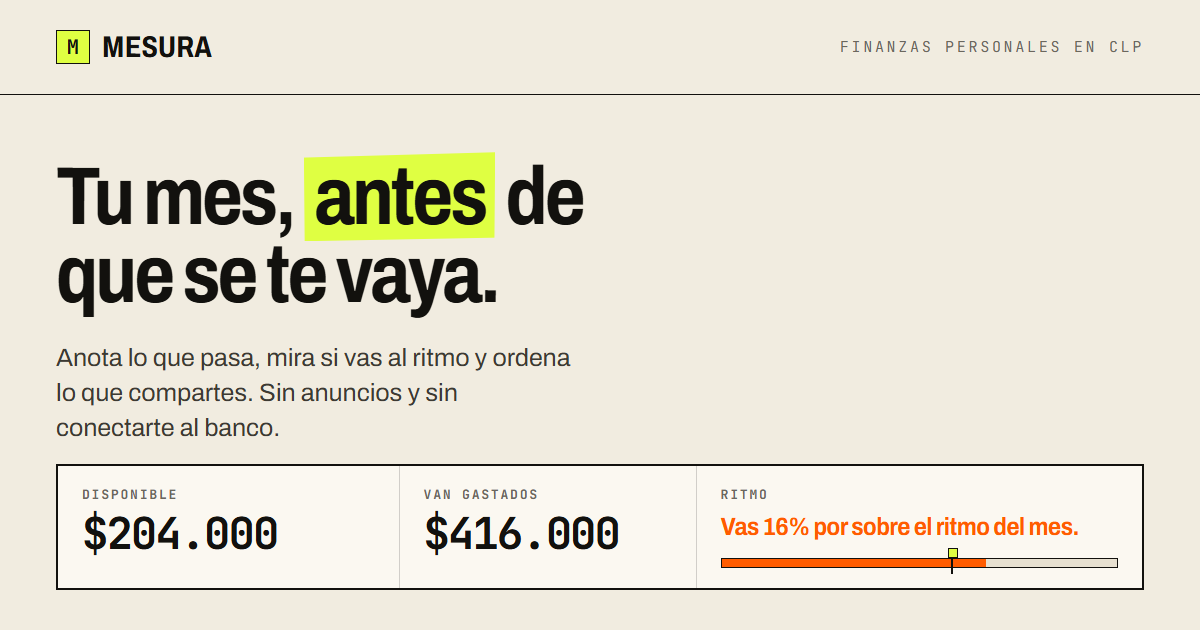
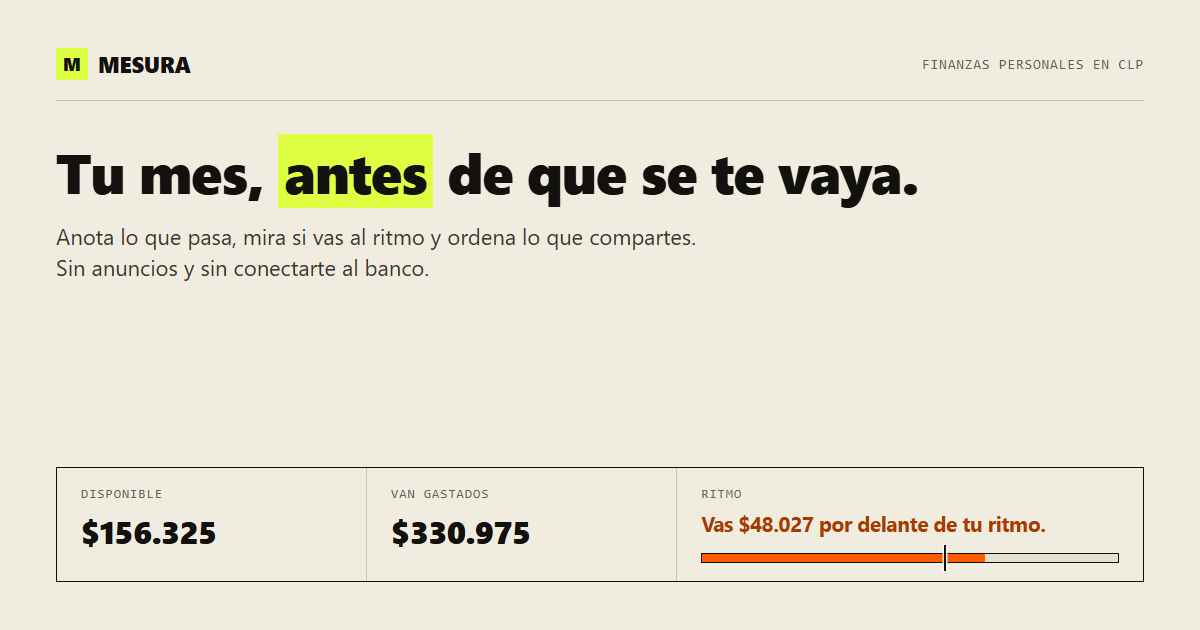
fix(landing): corrige el ejemplo del hero contra el codigo real y el calendario 2026
El estudio de usuarios (Mesura-lanzamiento/) encontro que el demo interactivo
del hero mostraba cosas que la app nunca hizo:

- El presupuesto de referencia ($620.000) era divisible exacto por los 31
  dias del mes -- el mismo defecto que landing-v2 tenia en los seis paises,
  pero ya vivia en la pagina publicada, en su propia demo.
- El veredicto de ritmo mostraba un porcentaje ("Vas 16% por sobre el ritmo
  del mes"). La app -- hoy, en master de Mesura-app-source -- nunca calculo
  un porcentaje: compara la diferencia en dinero contra PACE_TOLERANCE (500
  unidades minimas) y dice "Vas $X por delante/por debajo de tu ritmo" o
  "Vas al dia con tu presupuesto" (app/lib/home-context.ts). demo.js queda
  reescrito para replicar esa regla exacta, no una inventada.
- Las fechas del ejemplo (sab 16 / vie 15 / jue 14 / mie 13) son el
  calendario de agosto de 2025. En 2026 el 16 de agosto es domingo.
- La bajada del primer momento prometia "un monto, una categoria, listo" en
  cuatro campos reales, uno de ellos obligatorio ("Que fue?"). Se reemplaza
  por la secuencia real y se deja de esconder el campo que el estudio senala
  como lo mas valorado del producto.
- "Dos servicios para funcionar" describia dos cuando los propios Terminos
  (Mesura-app-source/app/terminos/page.tsx) declaran tres: falta Anthropic.
- No se declaraba que hoy no se puede importar desde otra app ni una
  planilla, ni que existe presupuesto por categoria ademas del general --
[…]

diff --git a/index.html b/index.html
@@ -16,7 +16,7 @@
 <meta property="og:image" content="https://mesura-landing.pages.dev/assets/img/og-mesura.png">
 <meta property="og:image:width" content="1200">
 <meta property="og:image:height" content="630">
-<meta property="og:image:alt" content="Estado del mes de Mesura: disponible $204.000 y el aviso de que vas por sobre el ritmo del mes.">
+<meta property="og:image:alt" content="Estado del mes de Mesura: disponible $156.325 y el aviso de que vas por delante de tu ritmo.">
 <meta name="twitter:card" content="summary_large_image">
 <meta name="twitter:title" content="Mesura — Tu mes, antes de que se te vaya">
 <meta name="twitter:description" content="Anota un gasto, mira si vas al ritmo del mes y ordena lo que compartes. En pesos chilenos, sin anuncios y sin conectarte al banco.">
@@ -169,27 +169,27 @@
           <div>
             <dt>Disponible</dt>
             <dd>
-              <p class="fig-amount" id="demo-available">$204.000</p>
-              <p class="fig-sub" id="demo-available-sub">De un presupuesto de $620.000 para el mes.</p>
+              <p class="fig-amount" id="demo-available">$156.325</p>
+              <p class="fig-sub" id="demo-available-sub">De un presupuesto de $487.300 para el mes.</p>
             </dd>
           </div>
           <div>
             <dt>Van gastados</dt>
             <dd>
-              <p class="fig-amount fig-amount--mid" id="demo-spent">$416.000</p>
+              <p class="fig-amount fig-amount--mid" id="demo-spent">$330.975</p>
               <p class="fig-sub">Suma de lo anotado entre el 1 y el 18 de agosto.</p>
             </dd>
           </div>
           <div>
             <dt>Ritmo</dt>
             <dd class="pace">
-              <p class="pace__verdict" id="demo-verdict" data-state="over">Vas 16% por sobre el ritmo del mes.</p>
+              <p class="pace__verdict" id="demo-verdict" data-state="over">Vas $48.027 por delante de tu ritmo.</p>
               <div class="pace__axis">
-                <div class="pace__fill" id="demo-fill" data-state="over" style="width:67%"></div>
-                <div class="pace__tick" id="demo-tick" style="left:58%"></div>
+                <div class="pace__fill" id="demo-fill" data-state="over" style="width:67.9%"></div>
+                <div class="pace__tick" id="demo-tick" style="left:58.1%"></div>
               </div>
               <div class="pace__scale">
-                <span id="demo-expected">Esperado al día 18: $360.000</span>
+                <span id="demo-detail">Es lo que llevas de más respecto a lo que correspondería a esta altura del mes.</span>
                 <span>Fin de mes</span>
               </div>
             </dd>
@@ -202,23 +202,23 @@
             <ul class="entries" id="demo-entries">
               <li>
                 <span class="entries__label">Feria de la Vega</span>
-                <span class="entries__amount">−$23.400</span>
-                <span class="entries__meta">Supermercado · sáb 16</span>
-              </li>
-              <li>
-                <span class="entries__label">Bencina</span>
-                <span class="entries__amount">−$32.000</span>
-                <span class="entries__meta">Transporte · vie 15</span>
+                <span class="entries__amount">−$20.125</span>
+                <span class="entries__meta">Supermercado · dom 16</span>
               </li>
               <li>
                 <span class="entries__label">Cumpleaños de la Javi</span>
-                <span class="entries__amount">−$18.500</span>
-                <span class="entries__meta">Salidas · jue 14</span>
+                <span class="entries__amount">−$18.079</span>
+                <span class="entries__meta">Salidas · sáb 15</span>
+              </li>
+              <li>
+                <span class="entries__label">Bencina</span>
+                <span class="entries__amount">−$7.504</span>
+                <span class="entries__meta">Transporte · vie 14</span>
               </li>
               <li>
                 <span class="entries__label">Cuenta de la luz</span>
-                <span class="entries__amount">−$41.200</span>
-                <span class="entries__meta">Casa · mié 13</span>
+                <span class="entries__amount">−$33.478</span>
+                <span class="entries__meta">Casa · jue 13</span>
               </li>
             </ul>
           </div>
@@ -229,30 +229,30 @@
               <li>
                 <div class="cats__row">
                   <span class="cats__name"><i class="cats__dot" style="background:#ff5c00"></i>Supermercado</span>
-                  <span class="cats__amount">$164.900</span>
+                  <span class="cats__amount">$136.785</span>
                 </div>
-                <div class="cats__bar"><span style="width:39.6%;background:#ff5c00"></span></div>
+                <div class="cats__bar"><span style="width:41.3%;background:#ff5c00"></span></div>
               </li>
               <li>
                 <div class="cats__row">
                   <span class="cats__name"><i class="cats__dot" style="background:#1f4fd8"></i>Transporte</span>
-                  <span class="cats__amount">$58.400</span>
+                  <span class="cats__amount">$46.245</span>
                 </div>
                 <div class="cats__bar"><span style="width:14%;background:#1f4fd8"></span></div>
               </li>
               <li>
                 <div class="cats__row">
                   <span class="cats__name"><i class="cats__dot" style="background:#8a5cf6"></i>Salidas</span>
-                  <span class="cats__amount">$74.200</span>
+                  <span class="cats__amount">$61.790</span>
                 </div>
-                <div class="cats__bar"><span style="width:17.8%;background:#8a5cf6"></span></div>
+                <div class="cats__bar"><span style="width:18.7%;background:#8a5cf6"></span></div>
               </li>
               <li>
                 <div class="cats__row">
                   <span class="cats__name"><i class="cats__dot" style="background:#0f9d58"></i>Casa</span>
-                  <span class="cats__amount">$118.500</span>
+                  <span class="cats__amount">$86.155</span>
                 </div>
-                <div class="cats__bar"><span style="width:28.5%;background:#0f9d58"></span></div>
+                <div class="cats__bar"><span style="width:26%;background:#0f9d58"></span></div>
               </li>
             </ul>
           </div>
@@ -317,14 +317,15 @@
           <div>
             <h3 class="t-h3">Acaba de pasar: lo anotas y sigues</h3>
             <p>
-              Un monto, una categoría, listo. Las categorías son tuyas — les cambias
-              el nombre, el color y el ícono, o creas las que te falten. El hábito se
-              sostiene porque el registro no interrumpe nada.
+              Escribes el monto, tocas la categoría, guardas — y de paso anotas qué
+              fue, en tus palabras, no en las de una planilla. Las categorías son
+              tuyas — les cambias el nombre, el color y el ícono, o creas las que te
+              falten.
             </p>
           </div>
           <p class="jotting">
-            <b><span>Feria de la Vega</span><span>−$23.400</span></b>
-            <em>Anotado en 4 segundos · Supermercado</em>
+            <b><span>Feria de la Vega</span><span>−$20.125</span></b>
+            <em>Supermercado · dom 16</em>
           </p>
         </li>
 
@@ -339,9 +340,9 @@
             </p>
           </div>
           <p class="jotting">
-            <b><span>Esperado al día 18</span><span>$360.000</span></b>
-            <b><span>Llevas gastado</span><span class="up">$416.000</span></b>
-            <em>16% sobre el ritmo · quedan 13 días</em>
+            <b><span>Esperado al día 18</span><span>$282.948</span></b>
+            <b><span>Llevas gastado</span><span class="up">$330.975</span></b>
+            <em>$48.027 por delante de tu ritmo · quedan 13 días</em>
           </p>
         </li>
 
@@ -365,8 +366,9 @@
 
       <p class="marginal">
         Alrededor de esos tres momentos hay metas de ahorro, calendario, favoritos,
-        recordatorios de pagos fijos y un resumen semanal por correo, que llega
-        activado y se apaga en un clic.
+        recordatorios de pagos fijos, presupuesto por categoría además del presupuesto
+        general, y un resumen semanal por correo, que llega activado y se apaga en un
+        clic.
       </p>
     </div>
   </section>
@@ -508,9 +510,12 @@
             </li>
             <li>Los movimientos que anotas tú, en pesos chilenos.</li>
             <li>
-              Dos servicios para funcionar
-              <small>Cloudflare mantiene la app en internet y Google manda los correos,
-              como el resumen semanal.</small>
+              Tres servicios para funcionar
+              <small>Cloudflare mantiene la app y la base de datos en internet. Google
+              manda los correos que Mesura te envía, como el resumen semanal — no
+              recibe tus movimientos uno por uno. Anthropic solo interviene si activas
+              «Análisis con Mesura IA», y solo recibe un resumen de la semana; esa
+              función viene apagada.</small>
             </li>
             <li>
               Tu respaldo, cuando lo pides
@@ -522,6 +527,11 @@
           <h3>Lo que Mesura no hace</h3>
           <ul>
             <li>No se conecta a tu banco ni te pide claves bancarias.</li>
+            <li>
+              No importa tus datos desde otra app ni desde una planilla
+              <small>Hoy solo se puede sacar, no meter: si ya llevas tus gastos en otro
+              lado, no hay forma de traerlos. Empiezas de cero.</small>
+            </li>
             <li>No muestra publicidad, no vende tus datos y no usa cookies de seguimiento.</li>
             <li>
               No usa inteligencia artificial, salvo que tú la actives

diff --git a/assets/js/demo.js b/assets/js/demo.js
@@ -15,8 +15,11 @@
   var NUM = new Intl.NumberFormat("es-CL");
 
   /* El ejemplo: un mes cualquiera, a mitad de camino. El día 18 de 31 hace
-     que el "ritmo" tenga algo que decir desde el primer segundo. */
-  var REFERENCE = 620000;
+     que el "ritmo" tenga algo que decir desde el primer segundo.
+     Presupuesto de gasto variable (no incluye arriendo ni cuentas fijas),
+     y no es un múltiplo redondo de los días del mes — ver
+     Mesura-lanzamiento/landing-v3/ejemplo/verificar.js, que audita esto. */
+  var REFERENCE = 487300;
   var DAY = 18;
   var DAYS_IN_MONTH = 31;
 
@@ -28,12 +31,12 @@
   ];
 
   var SEED = {
-    cats: { super: 164900, transporte: 58400, carrete: 74200, casa: 118500 },
+    cats: { super: 136785, transporte: 46245, carrete: 61790, casa: 86155 },
     entries: [
-      { label: "Feria de la Vega",     meta: "Supermercado · sáb 16", amount: 23400, cat: "super" },
-      { label: "Bencina",              meta: "Transporte · vie 15",   amount: 32000, cat: "transporte" },
-      { label: "Cumpleaños de la Javi", meta: "Salidas · jue 14",     amount: 18500, cat: "carrete" },
-      { label: "Cuenta de la luz",     meta: "Casa · mié 13",         amount: 41200, cat: "casa" }
+      { label: "Feria de la Vega",     meta: "Supermercado · dom 16", amount: 20125, cat: "super" },
+      { label: "Cumpleaños de la Javi", meta: "Salidas · sáb 15",     amount: 18079, cat: "carrete" },
+      { label: "Bencina",              meta: "Transporte · vie 14",   amount: 7504,  cat: "transporte" },
+      { label: "Cuenta de la luz",     meta: "Casa · jue 13",         amount: 33478, cat: "casa" }
     ]
   };
 
@@ -47,7 +50,7 @@
     verdict:    document.getElementById("demo-verdict"),
     fill:       document.getElementById("demo-fill"),
     tick:       document.getElementById("demo-tick"),
-    expected:   document.getElementById("demo-expected"),
+    detail:     document.getElementById("demo-detail"),
     entries:    document.getElementById("demo-entries"),
     cats:       document.getElementById("demo-cats"),
     form:       document.getElementById("demo-form"),
@@ -73,26 +76,33 @@
     return CATEGORIES[0];
   }
 
-  /* ---- Ritmo ------------------------------------------------------------
-     El dato no es "cuánto llevas gastado", es "cuánto llevas gastado
-     comparado con lo que corresponde al día del mes en que vas". Esa
-     diferencia es la única razón por la que alguien mira la app un martes. */
+  /* ---- Ritmo -------------------------------------------------------------
+     Replica lo que hace hoy app/lib/home-context.ts en la app real: no un
+     porcentaje, sino la diferencia en dinero entre lo gastado y lo que
+     correspondería a esta altura del mes, con una banda muerta de 500
+     unidades mínimas de la moneda (PACE_TOLERANCE) para que el indicador no
+     alterne de estado con cada peso. Si la app cambia esta regla, este
+     ejemplo tiene que cambiar con ella — no antes. */
+  var PACE_TOLERANCE = 500;
+
   function pace(spent) {
     var expected = Math.round(REFERENCE * (DAY / DAYS_IN_MONTH));
-    var ratio = expected > 0 ? spent / expected : 0;
-    var deltaPct = Math.round((ratio - 1) * 100);
-    var stateName = deltaPct > 25 ? "way-over" : deltaPct > 4 ? "over" : "";
-    var text;
-    if (spent > REFERENCE) {
-      text = "Ya pasaste el presupuesto del mes.";
-    } else if (deltaPct > 4) {
-      text = "Vas " + deltaPct + "% por sobre el ritmo del mes.";
-    } else if (deltaPct < -4) {
-      text = "Vas " + Math.abs(deltaPct) + "% por debajo del ritmo del mes.";
+    var diff = spent - expected;
+    var stateName, text, detail;
+    if (diff > PACE_TOLERANCE) {
+      stateName = "over";
+      text = "Vas " + CLP.format(diff) + " por delante de tu ritmo.";
+      detail = "Es lo que llevas de más respecto a lo que correspondería a esta altura del mes.";
+    } else if (diff < -PACE_TOLERANCE) {
+      stateName = "under";
+      text = "Vas " + CLP.format(Math.abs(diff)) + " por debajo de tu ritmo.";
+      detail = "Si sigues así, cierras el mes con holgura sobre tu presupuesto.";
     } else {
-      text = "Vas justo en el ritmo del mes.";
+      stateName = "";
+      text = "Vas al día con tu presupuesto.";
+      detail = "Tu gasto va justo en lo que correspondería a esta altura del mes.";
     }
-    return { expected: expected, deltaPct: deltaPct, state: stateName, text: text };
+    return { expected: expected, diff: diff, state: stateName, text: text, detail: detail };
   }
 
   /* ---- Render ---------------------------------------------------------- */
@@ -122,7 +132,7 @@
 
     var tickPct = Math.min(100, (p.expected / REFERENCE) * 100);
     el.tick.style.left = tickPct.toFixed(1) + "%";
-    el.expected.textContent = "Esperado al día " + DAY + ": " + CLP.format(p.expected);
+    el.detail.textContent = p.detail;
   }
 
   function renderEntries(freshIndex) {

diff --git a/docs/redesign/qa/scripts/funcional.js b/docs/redesign/qa/scripts/funcional.js
@@ -70,7 +70,7 @@ prueba("demo", "sin JavaScript no se pinta ningún control muerto", () =>
     igual(cta.display, "none", "el CTA de la demo debe seguir oculto sin JS");
     igual(cta.alto, 0);
     // Y la hoja tiene que seguir mostrando sus cifras.
-    igual(await texto(page, "#demo-available"), "$204.000");
+    igual(await texto(page, "#demo-available"), "$156.325");
     igual((await page.$$("details")).length, 4);
   }, { sinJs: true }));
 
@@ -170,16 +170,17 @@ prueba("demo", "el sobregiro se marca en rojo", () =>
       await page.click("#demo-form button[type=submit]");
       await new Promise((r) => setTimeout(r, 60));
     }
-    // demo.js distingue "over" (>4% sobre el ritmo) de "way-over" (>25%):
-    // seis gastos de 150.000 caen holgadamente en el segundo.
+    // demo.js replica home-context.ts: sólo hay "over" (diff > 500 unidades
+    // mínimas), no un segundo umbral — la app real tampoco lo tiene.
     const estado = await page.$eval("#demo-verdict", (e) => e.dataset.state);
-    igual(estado, "way-over");
-    // No se clava el hexadecimal: el tono cambia entre claro y oscuro y entre
-    // "over" y "way-over". Lo que la prueba defiende es que sea rojo.
+    igual(estado, "over");
+    // No se clava el hexadecimal: el tono cambia entre claro y oscuro. Lo que
+    // la prueba defiende es que sea un naranja/rojizo de aviso, no el tinte
+    // por defecto.
     const rgb = await page.$eval("#demo-verdict", (e) =>
       getComputedStyle(e).color.match(/[0-9]+/g).map(Number));
     afirmar(rgb[0] > 150 && rgb[0] > rgb[1] * 2 && rgb[0] > rgb[2] * 2,
-      `el veredicto no es rojo: rgb(${rgb.join(", ")})`);
+      `el veredicto no está en tono de aviso: rgb(${rgb.join(", ")})`);
   }));
 
 prueba("demo", "el CTA del hero manda el foco al campo de monto", () =>

diff --git a/assets/css/landing.css b/assets/css/landing.css
@@ -607,7 +607,6 @@ main > .section--band:last-child { padding-bottom: var(--space-band); }
   line-height: 1.2;
 }
 .pace__verdict[data-state="over"] { color: var(--orange-ink); }
-.pace__verdict[data-state="way-over"] { color: var(--red); }
 .pace__axis {
   position: relative;
   height: 10px;
@@ -621,9 +620,8 @@ main > .section--band:last-child { padding-bottom: var(--space-band); }
   transition: width .5s cubic-bezier(.22, .9, .3, 1);
 }
 .pace__fill[data-state="over"] { background: var(--orange); }
-.pace__fill[data-state="way-over"] { background: var(--red); }
 /* La marca de "esperado a hoy" cae encima del relleno, así que lleva un halo
-   del color de la hoja para seguir leyéndose sobre naranjo o sobre rojo. */
+   del color de la hoja para seguir leyéndose sobre naranjo. */
 .pace__tick {
   position: absolute;
   top: -9px;
